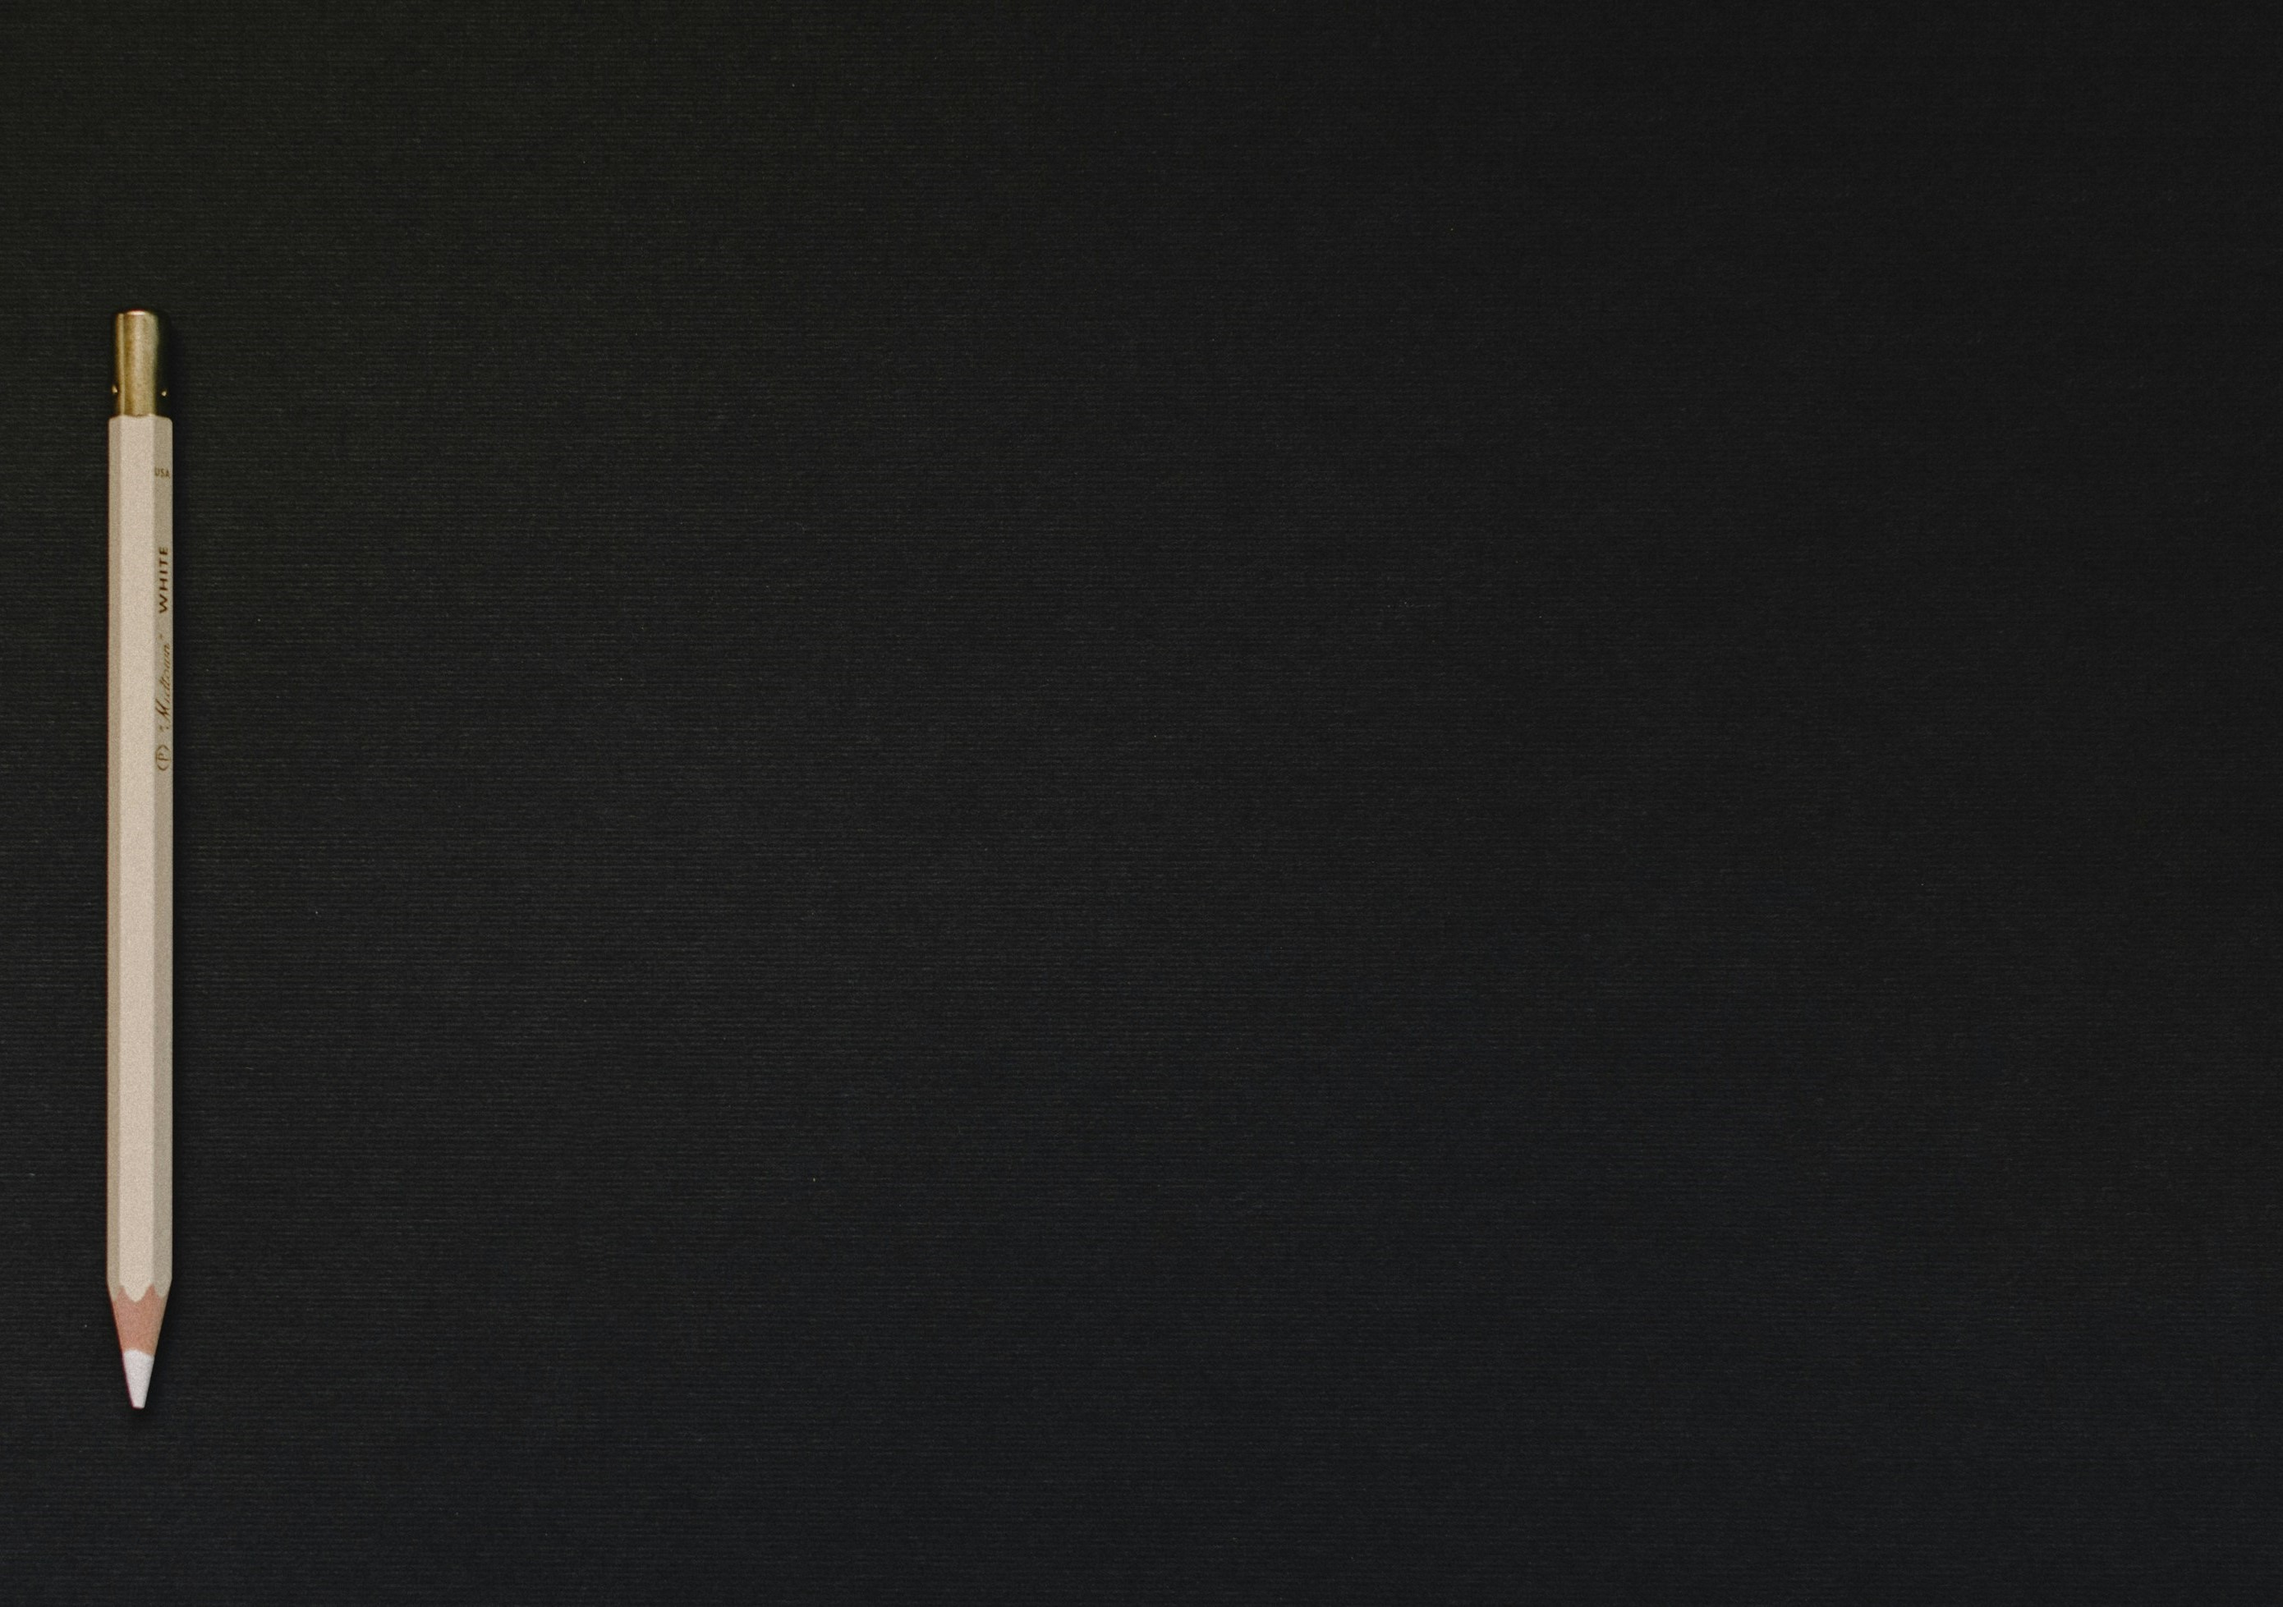
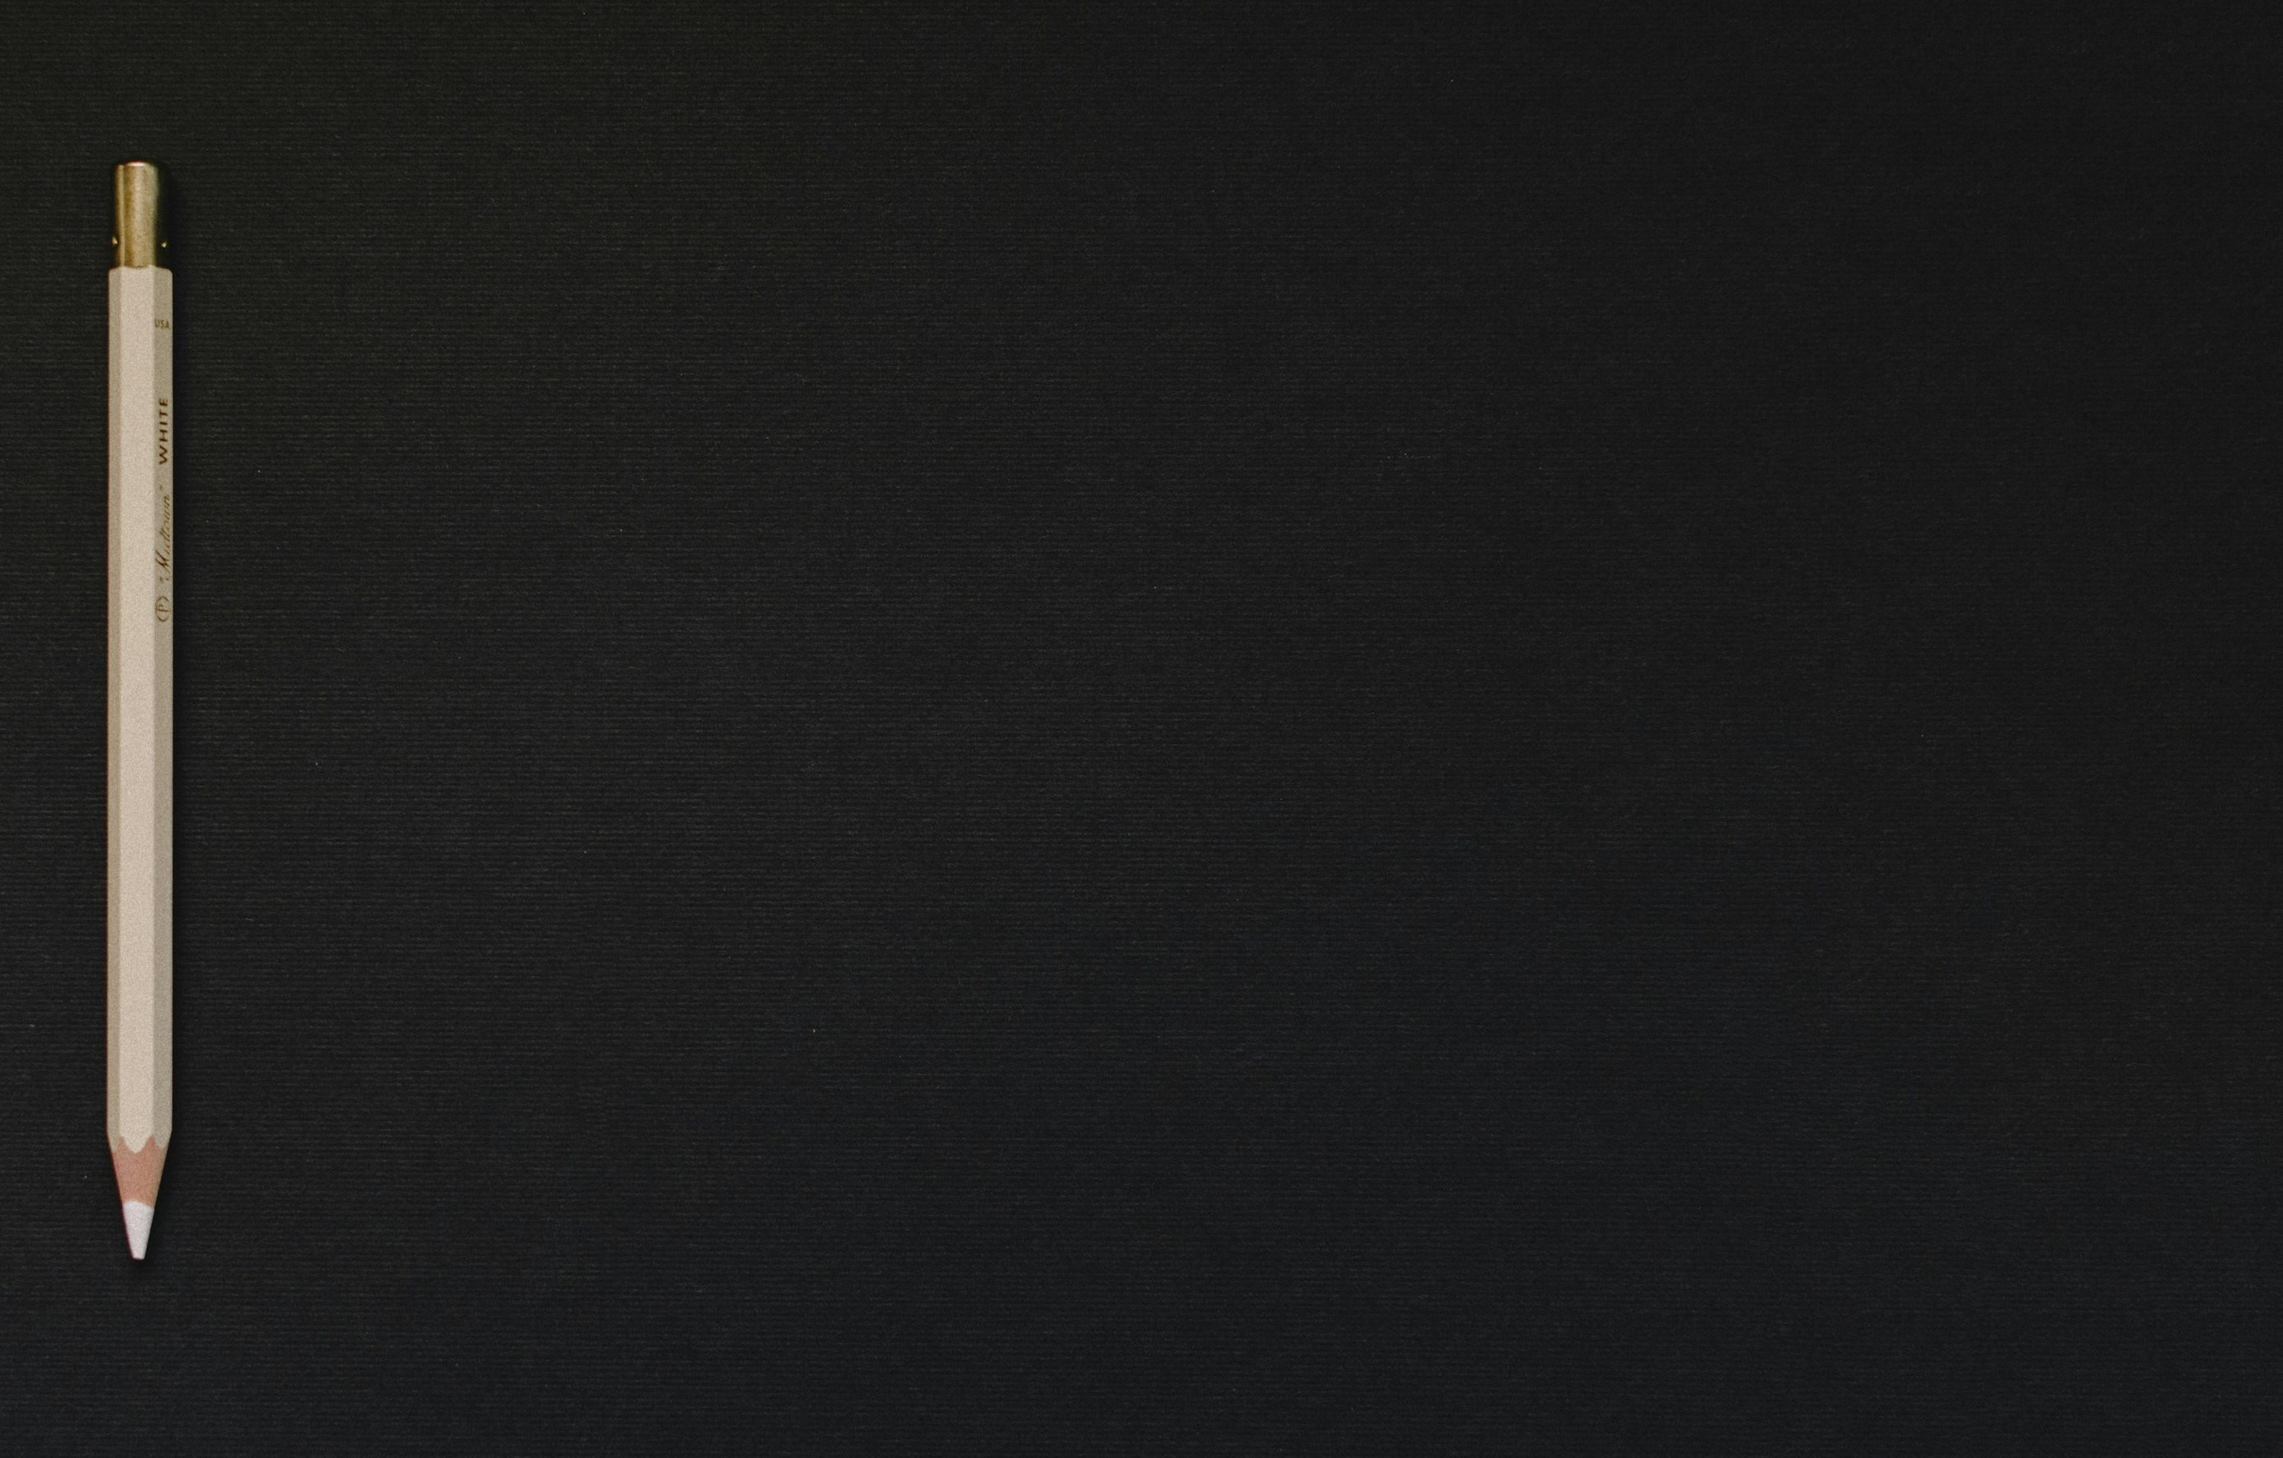
Modify bio page

Changed region(s): [[0.0309, 0.0929, 0.0928, 0.2787], [0.0309, 0.7742, 0.0928, 0.8671]]

diff --git a/content/ko/authors/admin/_index.md b/content/ko/authors/admin/_index.md
@@ -131,6 +131,6 @@ email: 🖥
 user_groups:
   - admin
 ---
-<span style="font-size: 150%; font-weight: bold;">소개
+<span style="font-size: 155%; font-weight: 800;">소개
 
 안녕하세요! 제 이름은 <strong>최현솔</strong>이라고 합니다. 전북대학교 컴퓨터인공지능학부에 재학 중입니다. 현재는 웹 개발에 관심이 있어 공부 중입니다. 이외에도 데이터베이스, 알고리즘과 같은 다양한 전공 관련 지식들을 쌓는 중 입니다. 추후에 유능한 개발자로서 개발 부서에서 근무하는 것이 저의 목표입니다. 응원해주시면 감사하겠습니다. 

diff --git a/content/ko/about/index.md b/content/ko/about/index.md
@@ -17,7 +17,7 @@ sections:
         image: # Add your image background to assets/media/.
           filename: background-pen.jpg
           filters:
-            brightness: 0.5
+            brightness: 0.8
           size: cover
           position: center 
           parallax: false
